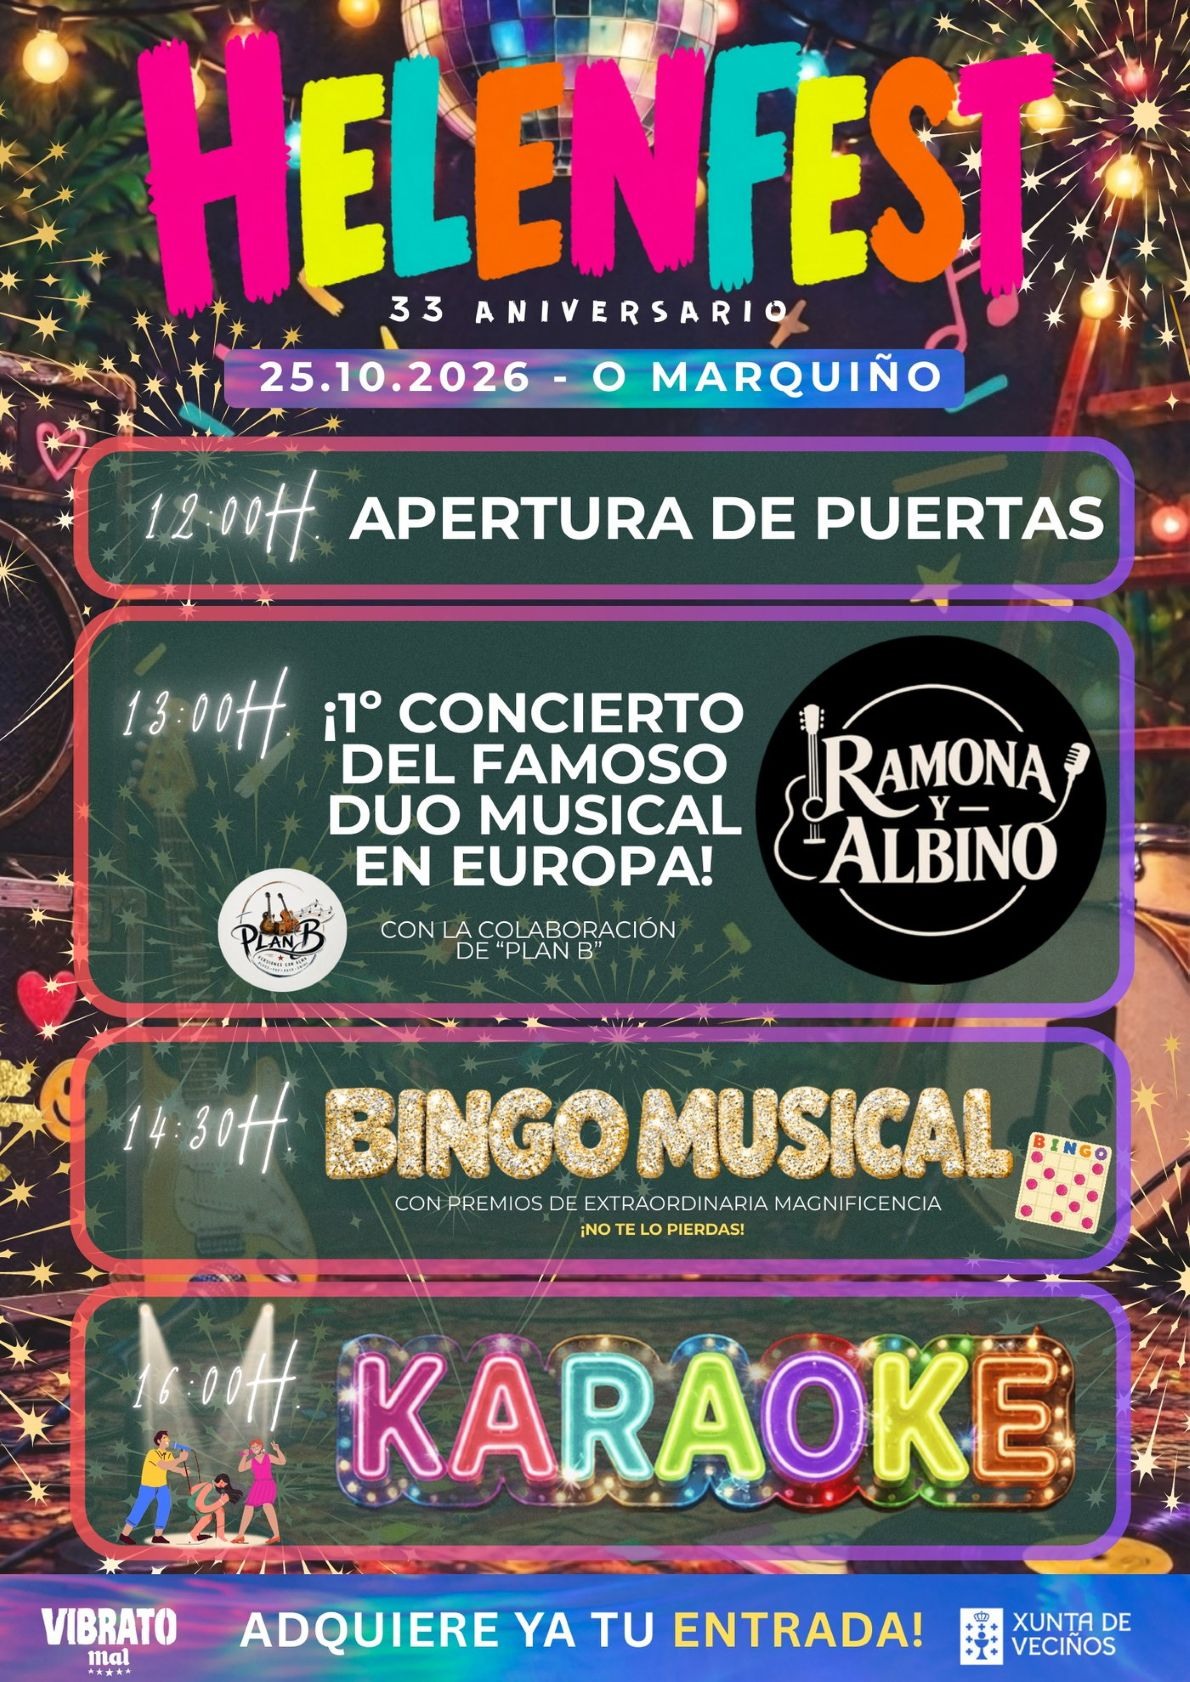
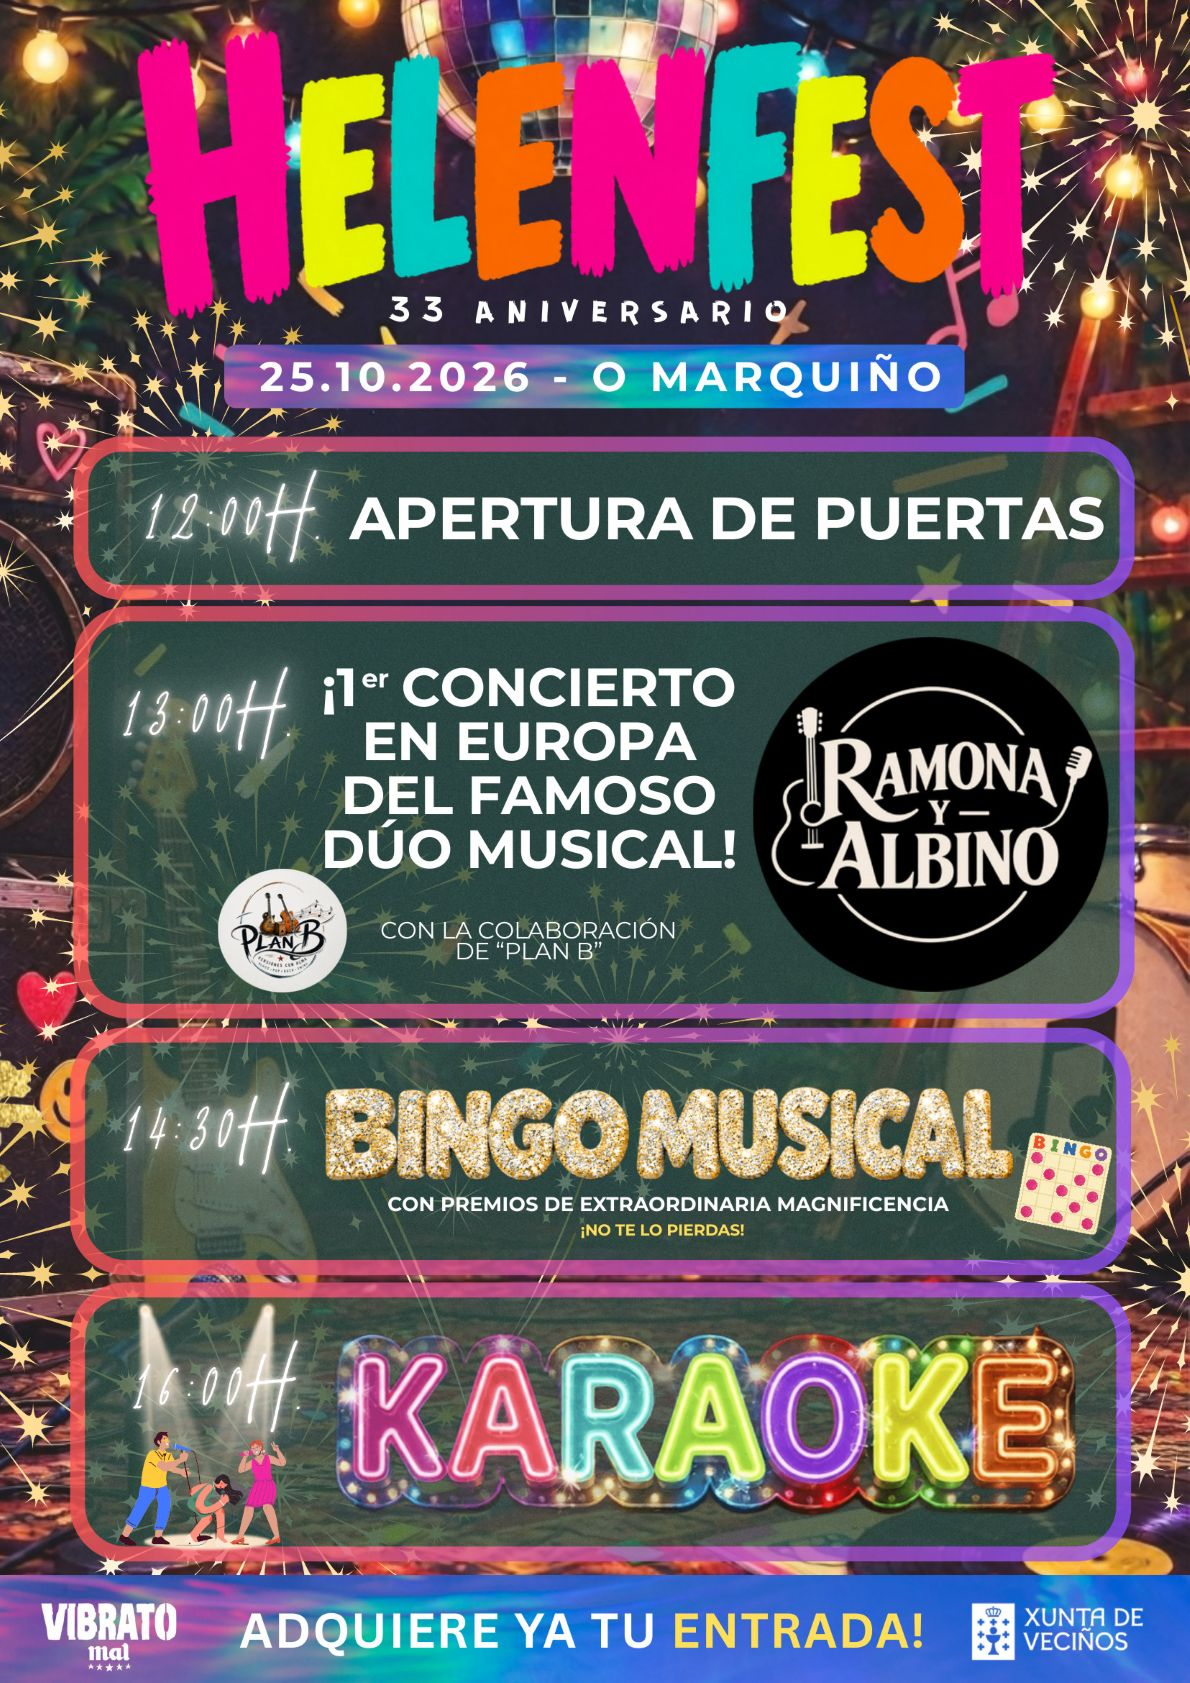
tabs styles updated

diff --git a/src/components/Tabs.css b/src/components/Tabs.css
@@ -2,8 +2,9 @@
   position: sticky;
   top: 0;
   z-index: 40;
+  flex: none;
   display: flex;
-  gap: 8px;
+  gap: 20px;
   padding: 12px;
   overflow-x: auto;
   background: rgba(10, 8, 28, 0.55);
@@ -20,7 +21,7 @@
   background: rgba(255, 255, 255, 0.06);
   color: #fdf6ec;
   font-family: 'HelenFestFont', var(--font-heading-fallback);
-  font-size: 0.95rem;
+  font-size: 1.2rem;
   letter-spacing: 0.03em;
   cursor: pointer;
   transition: transform 0.2s ease, background 0.2s ease;
@@ -46,12 +47,15 @@
   .tabs-bar {
     gap: 6px;
     padding: 8px;
+    justify-content: center;
+
   }
 
   .tab {
-    padding: 9px 9px;
-    font-size: 0.82rem;
+    padding: 6px 14px;
+    font-size: 0.92rem;
     letter-spacing: 0;
+    flex: none;
   }
 }
 

diff --git a/src/components/Poster.css b/src/components/Poster.css
@@ -1,10 +1,12 @@
 .poster {
-  --tabs-height: 70px;
   --poster-gap: 16px;
 
   position: relative;
   z-index: 1;
   display: flex;
+  flex: 1 1 auto;
+  min-height: 0;
+  align-items: center;
   justify-content: center;
   padding: var(--poster-gap);
 }
@@ -15,7 +17,7 @@
   width: auto;
   height: auto;
   max-width: min(100%, 1190px);
-  max-height: calc(100dvh - var(--tabs-height) - var(--poster-gap) * 2);
+  max-height: 100%;
   border: 6px solid #eecd2f;
   border-radius: 16px;
   box-shadow:
@@ -25,6 +27,10 @@
 
 /* En pantallas bajas (móvil en horizontal) se ajusta al ancho y se hace scroll, en vez de encogerse. */
 @media (max-height: 520px) {
+  .poster {
+    flex: none;
+  }
+
   .poster-image {
     max-height: none;
   }

diff --git a/src/App.css b/src/App.css
@@ -1,6 +1,16 @@
 .app-shell {
   position: relative;
-  min-height: 100vh;
+  display: flex;
+  flex-direction: column;
+  height: 100dvh;
+}
+
+/* En pantallas bajas (móvil en horizontal) la página crece y se hace scroll en vez de encoger el cartel. */
+@media (max-height: 520px) {
+  .app-shell {
+    height: auto;
+    min-height: 100dvh;
+  }
 }
 
 .app-background {

diff --git a/src/components/Tabs.jsx b/src/components/Tabs.jsx
@@ -22,7 +22,7 @@ function Tabs({ isRegistered, onTicketsClick, onKaraokeClick, onMediaClick }) {
         className="tab tab-tickets"
         onClick={onTicketsClick}
       >
-        🎟 Comprar entradas
+        🎟 Entradas
       </button>
 
       <button
